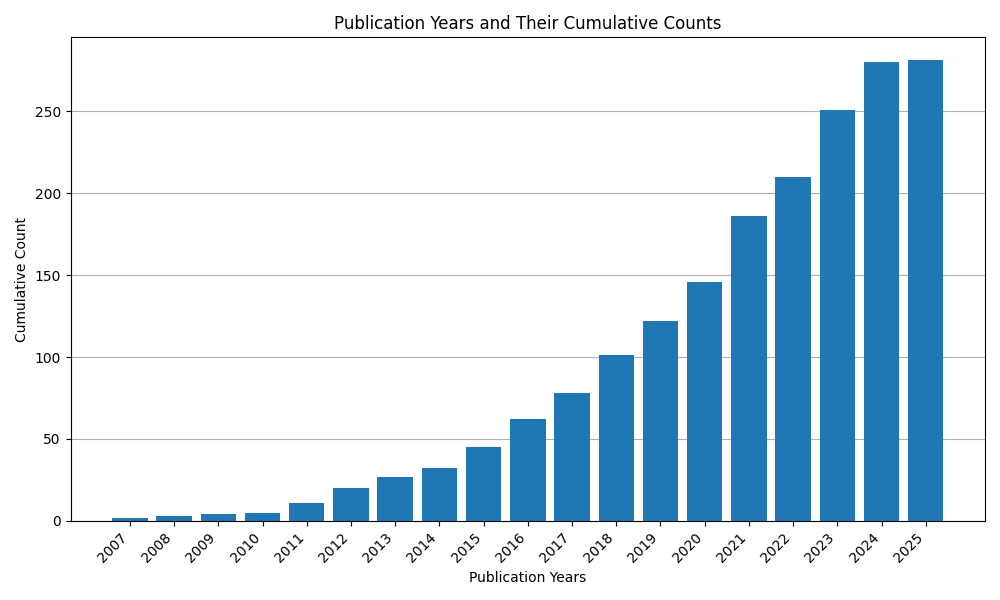
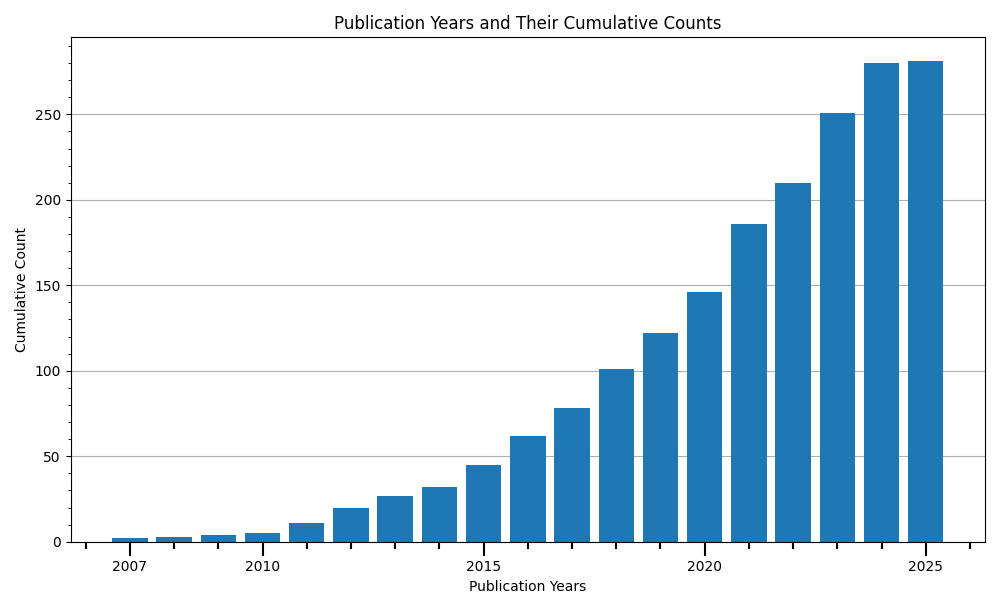
plot improvements

diff --git a/graph_new.py b/graph_new.py
@@ -2,6 +2,7 @@ import pandas as pd
 import matplotlib.pyplot as plt
 import math
 import os
+from matplotlib.ticker import MultipleLocator
 # Load the data files
 dirname = os.path.dirname(__file__)
 affiliations_file = os.path.join(dirname, r'data/affiliation.xlsx')  # Replace with your local file path
@@ -24,7 +25,11 @@ data_affiliations_filtered = data_affiliations[data_affiliations['Count'] > 4]
 data_years_filtered = data_years  # No filtering applied here
 data_countries_filtered = data_countries[data_countries['Count'] > 4]
 
+
+
+#-------------------------------
 # Plot affiliations bar chart
+#-------------------------------
 plt.figure(figsize=(10, 6))
 plt.barh(data_affiliations_filtered['Affiliations'], data_affiliations_filtered['Count'])
 plt.title('Affiliations and Their Counts (Excluding Counts 4 and Below)')
@@ -34,65 +39,65 @@ plt.xlabel('Count')
 ax = plt.gca()
 ax.grid(which='major', axis='x', linestyle='-')
 ax.set_axisbelow(True)
-# y_tick_list = range(0, math.ceil(max(data_affiliations_filtered['Count']))+1, 2)
-# plt.yticks(y_tick_list)
-# plt.xticks(rotation=45, ha='right')
 plt.tight_layout()
-# plt.show()
 plt.savefig(affiliations_plot_path)
 
+#-------------------------------
 # Plot publication years bar chart
+#-------------------------------
+
 plt.figure(figsize=(10, 6))
 plt.bar(data_years_filtered['Publication Years'], data_years_filtered['Count'])
-x_tick_list = range(min(data_years_filtered['Publication Years']), math.ceil(max(data_years_filtered['Publication Years']))+1)
+x_tick_list = [min(data_years_filtered['Publication Years'])] + [x for x in data_years_filtered['Publication Years'] if x%5==0] + [max(data_years_filtered['Publication Years'])]
+x_tick_list = sorted(list(set(x_tick_list)))
 plt.title('Publication Years and Their Counts')
 plt.xlabel('Publication Years')
 plt.ylabel('Count')
-plt.xticks(rotation=45, ha='right')
 plt.xticks(x_tick_list)
+plt.minorticks_on()
 plt.tight_layout()
-# plt.show()
 ax = plt.gca()
+ax.xaxis.set_minor_locator(MultipleLocator(1))
+ax.tick_params(axis='x', which='major', color='black', width=1.5, length=10)
+ax.tick_params(axis='x', which='minor', color='black', width=1.5, length=5)
 ax.grid(which='major', axis='y', linestyle='-')
 ax.set_axisbelow(True)
 plt.savefig(years_plot_path)
 
+#-------------------------------
 # Plot publication years bar chart cumulative
+#-------------------------------
 data_years_filtered.sort_values("Publication Years", ascending=True, inplace=True)
 data_years_filtered.reset_index(drop=True, inplace=True)
 plt.figure(figsize=(10, 6))
 cumulative_count = [data_years_filtered['Count'][0]]
 for i in range(1,len(data_years_filtered['Count'])):
     cumulative_count.append(cumulative_count[i-1] + data_years_filtered['Count'][i])
-
-#cumulative_count = list(reversed(cumulative_count)) # reverse list because Publication years are reversed in pandas dataframe
-
 plt.bar(data_years_filtered['Publication Years'], cumulative_count)
-x_tick_list = range(min(data_years_filtered['Publication Years']), math.ceil(max(data_years_filtered['Publication Years']))+1)
 plt.title('Publication Years and Their Cumulative Counts')
 plt.xlabel('Publication Years')
 plt.ylabel('Cumulative Count')
-plt.xticks(rotation=45, ha='right')
 plt.xticks(x_tick_list)
+plt.minorticks_on()
 plt.tight_layout()
-# plt.show()
 ax = plt.gca()
+ax.xaxis.set_minor_locator(MultipleLocator(1))
+ax.tick_params(axis='x', which='major', color='black', width=1.5, length=10)
+ax.tick_params(axis='x', which='minor', color='black', width=1.5, length=5)
 ax.grid(which='major', axis='y', linestyle='-')
 ax.set_axisbelow(True)
 plt.savefig(years_cululative_plot_path)
 
-
+#-------------------------------
 # Plot countries/regions bar chart
-# data_countries_filtered.sort_values('Count', ascending=True, inplace=True)
+#-------------------------------
 plt.figure(figsize=(10, 6))
 plt.barh(data_countries_filtered['Countries/Regions'], data_countries_filtered['Count'])
 plt.title('Countries/Regions and Their Counts (Excluding Counts 4 and Below)')
 plt.xlabel('Countries/Regions')
 plt.ylabel('Count')
-# plt.xticks(rotation=45, ha='right')
 plt.tight_layout()
 ax = plt.gca()
 ax.grid(which='major', axis='y', linestyle='-')
 ax.set_axisbelow(True)
-# plt.show()
 plt.savefig(countries_plot_path)
